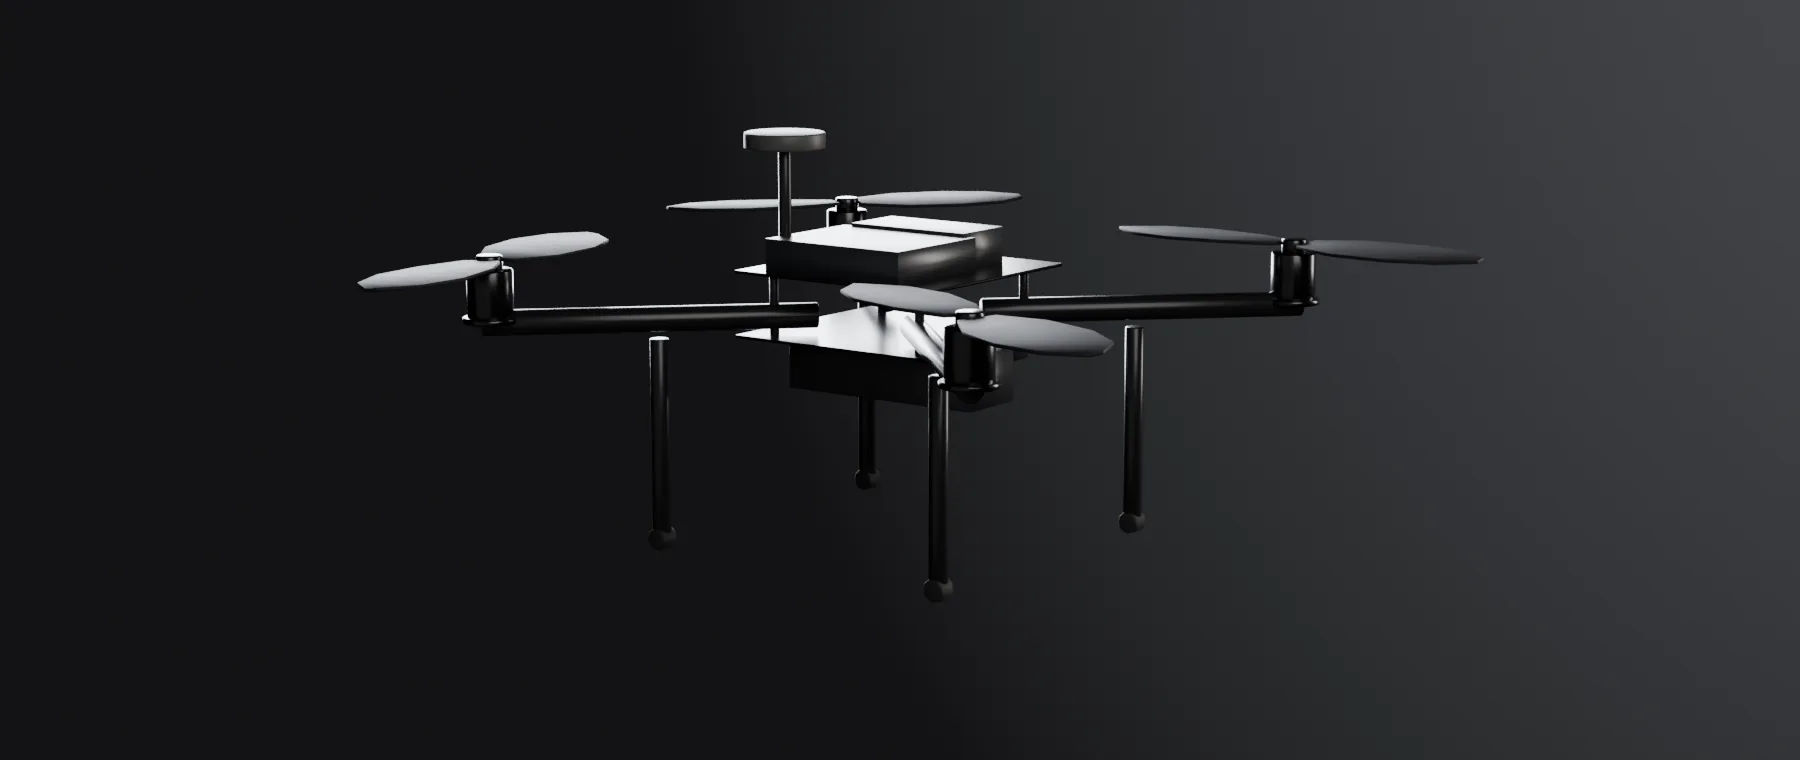
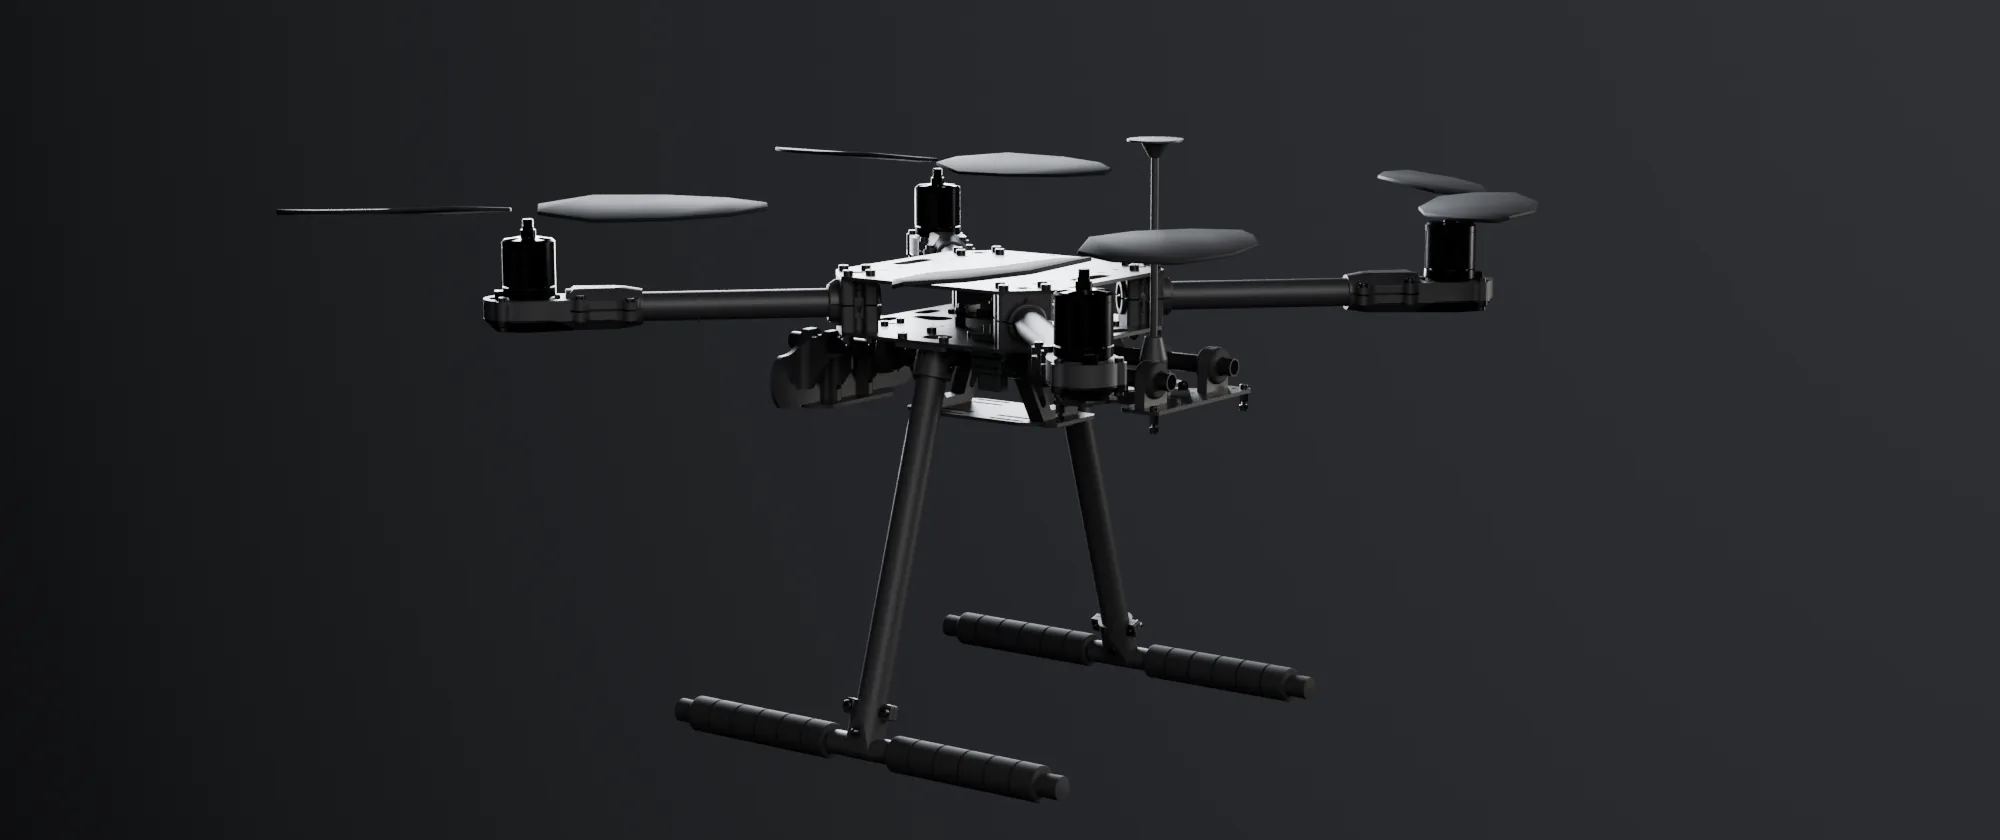
Render the hero from Holybro's own CAD
The first hero was modelled from the published dimensions because Blender
reads no STEP and the asset libraries want an API key. The STEP file turned up
in Downloads, so the aircraft on the page is now Holybro's own geometry rather
than my approximation of it: 244 parts and 1.4 million polygons, including the
plates, the arm clamps, the carbon tubes, the 2216 motors, the GPS mast, the
PM06 power module, the XT60 lead and several hundred real fasteners. Only the
propellers are still built here, since the frame CAD does not carry them.

cascadio converts the STEP to glTF, which Blender does read. The conversion is
worth recording: the motors land at exactly +/-0.178 m on both axes, a 0.5035 m
diagonal, so the 500 mm wheelbase in the docs checks out against the CAD.

Worth a second look on the bench: the CAD names the motor DJ-2216-KV880, while
the kit listing this build came from says 2216 KV920. The docs claim neither
yet, so nothing needs correcting until the real motor is read.

The still is 2000x840 now instead of 1800x760 and costs 22 KB instead of 13,
which still leaves the page at 193 KB against the 250 KB budget.

diff --git a/index.html b/index.html
@@ -221,8 +221,8 @@
   </div><!-- /wrap -->
 
   <figure class="shot">
-    <img src="assets/x500-hero.webp" width="1800" height="760"
-         alt="The Venator aircraft: a Holybro X500 V2 quadcopter with four arms, four propellers, landing gear, and the flight controller, companion computer and GPS mast mounted on the body plate">
+    <img src="assets/x500-hero.webp" width="2000" height="840"
+         alt="The Venator aircraft: a Holybro X500 V2 quadcopter, four carbon arms carrying 2216 motors and ten inch propellers, twin landing skids, and the GPS mast and power module on the body plate">
   </figure>
 </div><!-- /band -->
 
